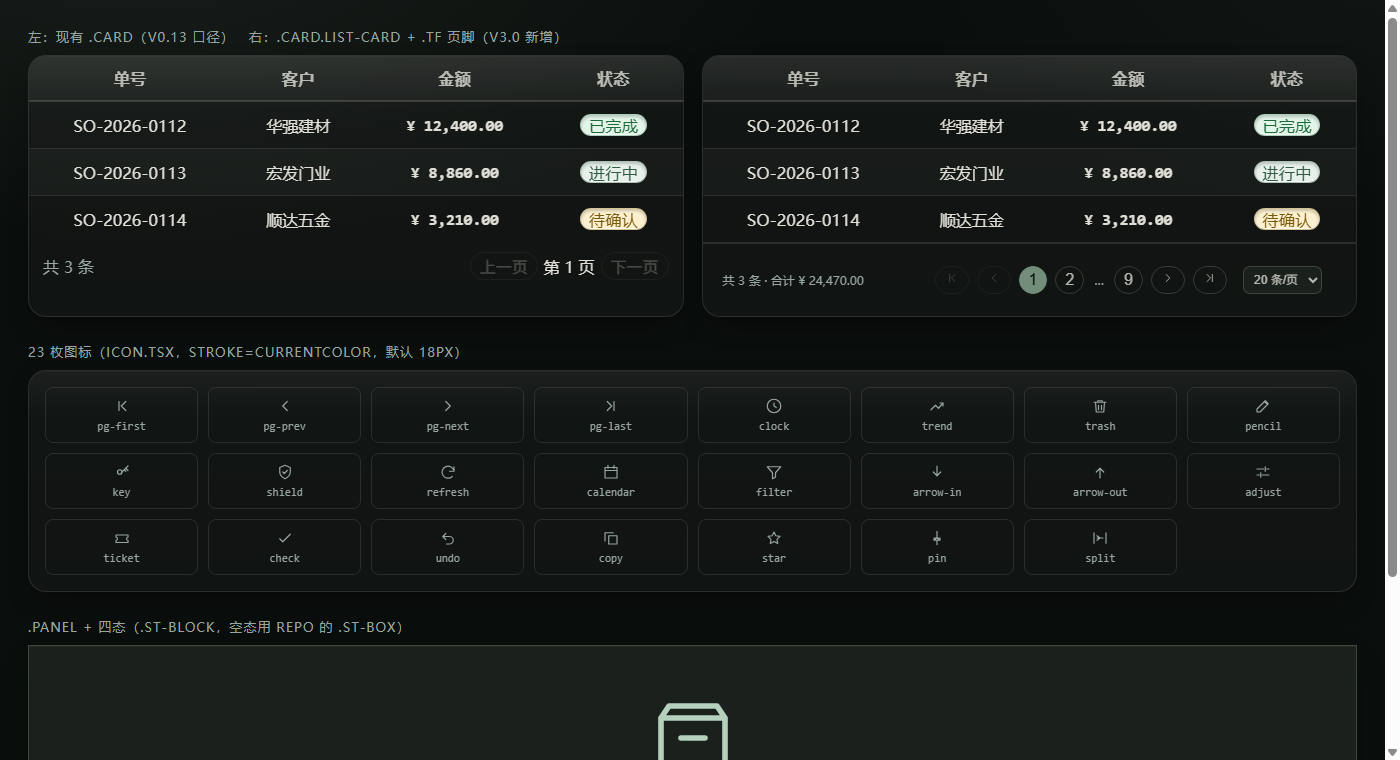
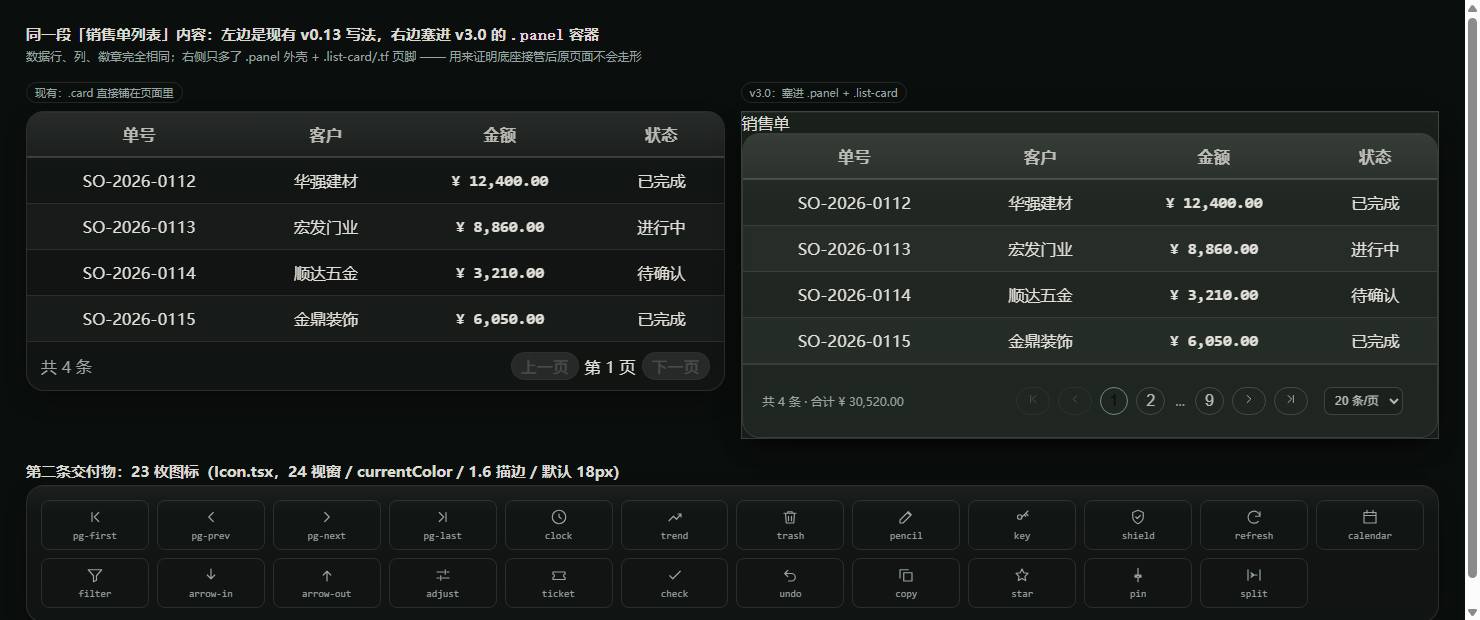
refactor(web): 按 #443 收紧底座范围——去掉原型外壳类与重复定义（#443）
逐条对回 issue 正文，砍掉三类越界 + 补两处不足：

- 删原型演示外壳：.lg-ver（版本水印）/ .lg-theme（主题切换浮钮）/
  .lg-mock（「模拟登录失败」演示按钮）。#443 明令「禁止把整段稿子 CSS 连
  .phone/.stage 一起搬进来——那部分是原型外壳」，这三样同类
- 删 --v30-warn：#443 只允许「真需要新变量」时新增，本文件搬来的类 0 处使用
- 删裸 .pager button 覆盖：app-v013.css:400 已有同名选择器，#443 要求
  「能复用就复用、不重复定义」。暗色白底白字改用新复合选择器 .tf .pager button
  修（v3.0 新页脚上下文，不碰 v0.13）；老 .pager 的缺口已在 #443 报给负责人
- Icon 签名收敛到 #443 建议的 { name, size, className }，去掉 style/decorative
  两个可选参数，aria-hidden 固定 true；删随之无用的 CSSProperties 导入
- 截图重做：改为「同一段销售单内容，左边现有写法 / 右边塞进 .panel」，
  对应 #443「把某个现有页面塞进 .panel 的肉眼对比」；删 demo.html
  （issue 未要求往仓库提交 demo，复现方式写进 README 代码块）
- README 补「五批页面怎么接这个底座」表 + 原型外壳不接的说明

验收：tsc --noEmit 0 / vitest src/components 5 文件 33 例 / pnpm -r build 全通过

diff --git a/apps/web/src/styles/app-v30.css b/apps/web/src/styles/app-v30.css
@@ -18,7 +18,7 @@
    | `.tf`                       | L250/458   | 列表卡页脚条（左「共 N 条 · 合计」，右分页） |
    | `.pager` 子元素补充          | L450–457   | `button.on` / `.per` / `.dots` / svg 尺寸（父级 `.pager` 复用 v0.13，不重写） |
    | `.tw` / `.tw.tight`         | L233/529   | 表格横向滚动容器（v0.13 靠 Tailwind 的 overflow-x-auto，v3.0 用它） |
-   | `.lg-*`                     | L381–421   | 登录页整套（5:5 左品牌右表单、`data-state` 三态、`.lg-alert`） |
+   | `.lg-*`（产品部分）          | L381–421   | 登录页：左品牌右表单、`.lg-field` / `.lg-code` / `.lg-submit` / `data-state` 三态 / `.lg-alert` |
    | `.ent-*` / `.lg-ok`         | L506–515   | 入企页（joined / invalid） |
    | `@keyframes lgDotPulse/spin` | L394/496  | 上面两组用到的动效 |
 
@@ -35,6 +35,10 @@
    - **`.state` / `.ico`**（稿子 L251–255 的面板空态）→ 同上，用 repo 的 `.st-box` + `.st-ico`。
    - **全局 reset 与 `:root` 原始米白色板**（稿子 L17–45）→ 会把现有页面砸掉，见 README §2。
    - **`@media print` 打印客户联**（稿子 L423–447）→ 属第一批单据页，单独提。
+   - **原型演示外壳**（与 `.phone` / `.stage` 同类，本版稿子里已无 `.phone`/`.stage`，
+     但登录页仍留了三样）：`.lg-ver`（右下角「Qingdan · 新 UI v3.0」版本水印）、
+     `.lg-theme`（右上角主题切换浮钮）、`.lg-mock`（「模拟一次登录失败」+ 演示口令
+     提示那两行）。这三样只服务设计稿自身的演示，**不是产品样式**，产品页面里不会出现。
 
    ------------------------------------------------------------------
    三、与 tokens-v013 的差异（#443 要求列清）
@@ -47,7 +51,7 @@
    | `--ink / --ink-2 / --ink-3` | `--text-1 / --text-2 / --text-3` | 桥接 |
    | `--line / --line-2` | `--line-1 / --line-2` | 桥接 |
    | `--bad / --ok` | `--danger-on-surface` / `--ok` | 桥接 |
-   | `--warn #b87407` | **无对应** | 新增 `--v30-warn`（暗 `#E0A233` / 亮 `#7A5A0E`，取稿子 dark/light 两值） |
+   | `--warn #b87407` | **无对应** | 暂不引入：本文件搬过来的类没有一处用到 warn，`tokens-v013` 也没有对应令牌，留到真需要时再走 `--v30-` 前缀新增 |
    | `--r 12px` | `--r-card 12px` | 一致，直接用 `--r-card` |
    | `color-mix(... , var(--accent) 14%, transparent)` | `--a-10 ~ --a-32` 一组 | 换成 `--a-*`（Edge 111 对 color-mix 恰在边界，用变量更稳） |
 
@@ -75,15 +79,10 @@
   --v30-on-accent: var(--on-accent);
   --v30-bad: var(--danger-on-surface);
   --v30-ok: var(--ok);
-  /* tokens-v013 没有 warn，按 #443「新变量走 --v30- 前缀」新增，取稿子两套主题各自的值 */
-  --v30-warn: #e0a233;
   --v30-r: var(--r-card);
   --v30-shadow: var(--sh-1);
   --v30-shadow-lg: var(--sh-2);
   --v30-ease: var(--ease-out);
-}
-html[data-mode="light"] {
-  --v30-warn: #7a5a0e;
 }
 
 /* ============================================================
@@ -139,11 +138,14 @@ html[data-mode="light"] {
   border-color: var(--v30-accent-solid);
   color: var(--v30-on-accent);
 }
-/* 补 v0.13 的一个缺口：`app-v013.css:400` 的 `.pager button` 没写 background，
-   而 index.css 有意删掉了全局 `button{background:none}`（README §2），
-   于是暗色模式下页码按钮落到浏览器默认的浅色底 → 白底白字看不见。
-   这里只补透明的底与禁用态，尺寸 / 圆角 / 字号仍由 v0.13 决定。 */
-.pager button {
+/* 页脚分页的按钮底。
+   注意这里写的是 `.tf .pager button`（v3.0 新引入的页脚上下文，app-v013 里没有
+   这个复合选择器），**不是**覆盖 `app-v013.css:400` 的 `.pager button` —— 按 #443
+   「已有的类不重复定义」，v0.13 的分页按钮本体一个字节都不动。
+   为什么要这一条：`app-v013.css:400` 没写 background，而 index.css 有意删掉了全局
+   `button{background:none}`（README §2），暗色下按钮会落到浏览器默认浅底 → 白底白字。
+   老的 `.pager` 那处缺口不属本单，已在 #443 评论里报给负责人单独修。 */
+.tf .pager button {
   background: transparent;
   cursor: pointer;
 }
@@ -414,20 +416,8 @@ html[data-mode="light"] {
   width: 16px;
   height: 16px;
 }
-.lg-ver {
-  position: fixed;
-  right: 18px;
-  bottom: 16px;
-  color: var(--v30-ink-3);
-  font: 500 11px var(--mono);
-}
-.lg-theme {
-  position: fixed;
-  right: 18px;
-  top: 16px;
-  display: flex;
-  gap: 6px;
-}
+/* 稿子 L417–420 的 `.lg-ver`（版本水印）与 `.lg-theme`（主题切换浮钮）是演示外壳，
+   按 #443 不搬，见文件头「二、没有搬什么」最后一条。 */
 
 /* 错误告警条：常驻 DOM，`.lg-form[data-state="error"]` 才显形（稿子 L488–492） */
 .lg-alert {
@@ -476,33 +466,6 @@ html[data-mode="light"] {
 .lg-alt svg {
   width: 14px;
   height: 14px;
-}
-.lg-mock {
-  margin: 10px 0 0;
-  font-size: 11.5px;
-  color: var(--v30-ink-3);
-  display: block;
-  line-height: 2;
-}
-.lg-mock svg {
-  width: 12px;
-  height: 12px;
-  vertical-align: -2px;
-  margin-right: 4px;
-}
-.lg-mock button {
-  font-size: 11.5px;
-  font-weight: 600;
-  color: var(--v30-accent);
-  border-bottom: 1px dashed var(--a-35);
-}
-.lg-mock button:hover {
-  border-bottom-style: solid;
-}
-.lg-mock b {
-  color: var(--v30-ink-2);
-  font-family: var(--mono);
-  font-weight: 600;
 }
 /* 成功条（入企页「已加入」用） */
 .lg-ok {

diff --git a/apps/web/src/components/icons/Icon.tsx b/apps/web/src/components/icons/Icon.tsx
@@ -12,7 +12,6 @@
  * （梁海俊已在 #443 注明先别按 24 写测试）。若最终取 24，把那一枚的 path 补进 `ICONS`
  * 与 `ICON_NAMES` 即可，`IconName` 会自动扩，调用方无需改。
  */
-import type { CSSProperties } from 'react';
 
 /** 图标名 → path 的 `d`。新增一枚只改这里 + `ICON_NAMES`。 */
 const ICONS = {
@@ -82,10 +81,6 @@ export interface IconProps {
   /** 边长，默认 18（稿子 `.ic` 的默认尺寸）。 */
   readonly size?: number;
   readonly className?: string;
-  readonly style?: CSSProperties;
-  /** 默认 true：图标本身不承载语义，旁边一定有文字或 aria-label。
-   *  纯图标按钮请传 `aria-label` 给按钮，并把这里保持 true。 */
-  readonly decorative?: boolean;
 }
 
 /**
@@ -95,12 +90,12 @@ export interface IconProps {
  * <Icon name="refresh" size={14} className="spin" />
  * <button aria-label="删除"><Icon name="trash" /></button>
  * ```
+ * 图标本身不承载语义（旁边一定有文字或按钮的 aria-label），所以固定 `aria-hidden`。
  */
-export function Icon({ name, size = 18, className, style, decorative = true }: IconProps) {
+export function Icon({ name, size = 18, className }: IconProps) {
   return (
     <svg
       className={className}
-      style={style}
       width={size}
       height={size}
       viewBox="0 0 24 24"
@@ -109,7 +104,7 @@ export function Icon({ name, size = 18, className, style, decorative = true }: I
       strokeWidth={1.6}
       strokeLinecap="round"
       strokeLinejoin="round"
-      aria-hidden={decorative ? true : undefined}
+      aria-hidden="true"
       focusable="false"
     >
       <path d={ICONS[name]} />

diff --git a/docs/ui/v3.0-base/README.md b/docs/ui/v3.0-base/README.md
@@ -1,31 +1,54 @@
-# v3.0 底座自验现场（#443）
+# v3.0 底座验收证据（#443）
 
-这里只有三样东西：一份不依赖 React 的 demo 页 + 两张截图。**不是产品页面，不进构建。**
+这里只有两张截图，**没有页面、没有代码，不进构建**。
 
-| 文件 | 用途 |
+| 文件 | 内容 |
 |---|---|
-| `demo.html` | 把 `apps/web/src/styles/app-v30.css` 的类拼一遍：`.card` vs `.card.list-card + .tf`、23 枚图标、`.panel` 四态。双击即可在浏览器打开（CSS 用相对路径引 `apps/web/src/styles/`） |
-| `base-light.png` / `base-dark.png` | 上面那份 demo 在亮色 / 暗色下的渲染结果，PR 里引用的是这两张 |
+| `base-light.png` | 同一段「销售单列表」内容：左边现有 v0.13 写法（`.card` 直接铺），右边塞进 v3.0 的 `.panel` + `.card.list-card` + `.tf` 页脚；底部是第二条交付物 23 枚图标 |
+| `base-dark.png` | 同上，`data-mode="dark"` |
 
-## 为什么要有这个目录
+## 为什么是这两张
 
-`#443` 的验收要求附一张「把现有页面塞进 `.panel` 的肉眼对比截图」，并注明**不要真改任何页面**。
-于是做了这份只读的 demo：左半是 v0.13 现有卡片，右半换成 `.list-card + .tf` 页脚，下面接四态面板与图标总览——
-一眼能看出新底座没有把老样式砸掉（左半与 v0.13 完全一致）。
+#443 的验收要求是「附一张把某个现有页面塞进 `.panel` 的肉眼对比截图（证明底座能用；不要真改那个页面）」。所以：
 
-## 复现
+- 两侧的表格行、列、徽章**完全相同**，只多了 `.panel` 外壳与 `.tf` 页脚 —— 一眼能看出接上底座后原页面没走形；
+- 用的是 `styles/README.md` §「四态怎么用 · 表格」里的示范片段，**没有改动任何真实页面**（本 PR 的 `git diff` 里 `apps/web/src/pages/**` 为 0 字节）。
 
-直接用浏览器打开 `demo.html` 即可，不需要起 dev server。
+## 怎么自己复现
 
-亮/暗切换：把 `demo.html` 第 2 行的 `data-mode="light"` 改成 `dark`。
+不需要起 dev server，也不用往仓库提交 demo 文件：
 
-截图命令（Edge headless，本机验证用）：
-
+```html
+<!doctype html>
+<html lang="zh-CN" data-mode="light"><head><meta charset="utf-8">
+<link rel="stylesheet" href="apps/web/src/styles/tokens-v013.css">
+<link rel="stylesheet" href="apps/web/src/styles/app-v013.css">
+<link rel="stylesheet" href="apps/web/src/styles/app-v30.css">
+</head><body>
+  <!-- 左边：现有写法 -->
+  <div class="card"><table>…</table></div>
+  <!-- 右边：同一段内容塞进 .panel -->
+  <section class="panel" data-state="filled">
+    <div class="panel-h">销售单</div>
+    <div class="card list-card" data-state="filled">
+      <div class="tw"><table>…</table></div>
+      <div class="tf"><span>共 N 条 · 合计 …</span><div class="pager">…</div></div>
+    </div>
+  </section>
+</body></html>
 ```
-msedge --headless --disable-gpu --window-size=1400,1150 --virtual-time-budget=5000 --run-all-compositor-stages-before-draw --screenshot=base-light.png docs/ui/v3.0-base/demo.html
+
+把这段存成仓库根目录下的临时 `.html`（`href` 路径要对得上 `apps/web/src/styles/`），浏览器直接打开就是截图里的样子。改 `data-mode="dark"` 看暗色。
+
+截图命令（本机 Edge headless）：
+
+```powershell
+msedge --headless --disable-gpu --window-size=1480,620 `
+  --virtual-time-budget=6000 --run-all-compositor-stages-before-draw `
+  --screenshot=base-light.png <临时 html 的 file:// 路径>
 ```
 
 ## 注意
 
-- 目录里的 `demo.html` 不是五批页面的模板，别复制它写业务页——真正的写法看 `apps/web/src/styles/README.md` 的「v3.0 底座」一节。
-- 底座合并后这个目录可以留着当回归样张，也可以在五批全部落地时一并删掉，不影响任何代码。
+- 这两张图是**证据**，不是页面模板。写业务页请对着 `apps/web/src/styles/README.md` 的「v3.0 底座」与「四态怎么用」两节抄。
+- 五批全部落地后，这个目录可以整块删掉，不影响任何代码。

diff --git a/apps/web/src/styles/README.md b/apps/web/src/styles/README.md
@@ -36,7 +36,7 @@
 | `.tf .pager` | 页脚内分页右对齐 | 同上 |
 | `.pager button.on` / `.per` / `.dots` / `svg` | v3.0 分页的选中页、每页条数、省略号、箭头尺寸 | 同上 |
 | `.tw` / `.tw.tight` | 表格横向滚动容器 / 紧凑列内边距 | 列多的单据表 |
-| `.lg-*` | 登录页整套：`lg-wrap` `lg-brand` `lg-mark` `lg-slogan` `lg-sub` `lg-foot` `lg-formpane` `lg-form` `lg-hint` `lg-field` `lg-code` `lg-row` `lg-submit` `lg-alert` `lg-alt` `lg-mock` `lg-ver` `lg-theme` | #435 登录页 |
+| `.lg-*` | 登录页整套：`lg-wrap` `lg-brand` `lg-mark` `lg-slogan` `lg-sub` `lg-foot` `lg-formpane` `lg-form` `lg-hint` `lg-field` `lg-code` `lg-row` `lg-submit` `lg-alert` `lg-alt` | #435 登录页 |
 | `.ent-*` / `.lg-ok` | 入企页：`ent-wrap` `ent-brand` `ent-pane` `ent-card` `ent-co` + 成功条 | #435 入企页 |
 | `--v30-*` | 变量桥接，见下 | 上述类内部用 |
 
@@ -54,7 +54,6 @@
 --v30-accent-solid: var(--accent-deep);   /* 实心按钮底，配 --v30-on-accent */
 --v30-bad: var(--danger-on-surface);
 --v30-ok: var(--ok);
---v30-warn: #e0a233 / #7a5a0e;            /* tokens-v013 没有 warn，新增；亮暗各一值 */
 ```
 
 **写新页面时用 `var(--v30-*)` 或 `var(--text-1)` 都行，别写死颜色。**
@@ -84,6 +83,19 @@ import { Icon } from '@/components/icons/Icon';
 | `.state` / `.ico`（稿子面板空态） | 同上，用 repo 的 `.st-box` + `.st-ico` |
 | 全局 reset 与米白色板 `#f5f4f0` / 朱砂 `#dc4a26` | 会砸现有页面；按 #443「颜色以 tokens-v013 为准」，只用映射后的变量 |
 | `@media print` 打印客户联 | 属第一批单据页（#431），单独提 |
+| 原型演示外壳 `lg-ver` `lg-theme` `lg-mock` | 与 `.phone` / `.stage` 同类：版本水印、「切换亮暗」浮钮、「模拟登录失败 / 演示口令」提示。只服务设计稿自身演示，产品页面不会出现 |
+
+### 五批页面怎么接这个底座
+
+| 批次 | 接哪几样 | 别做 |
+|---|---|---|
+| 第一批 #431（单据 5 + 冲正） | `.list-card` + `.tw` + `.tf` 页脚分页、`.tf .pager` 子元素、`Icon` | 别自己写分页控件；别把 `.st-*` 在这层重定义 |
+| 第二批 #432（主数据 4 + 员工） | 同上（列表形态完全一致） | 同上 |
+| 第三批 #433（库存 3） | `.list-card` + `.tf`；KPI 继续用 v0.13 的 `.kpis` / `.kpi` | 别用稿子的 `.state` / `.ico` |
+| 第四批 #434（设置组 6） | `.panel` + `.st-block`（面板型四态，v0.13 已有）+ `Icon` | 别改 `.panel` 本体 |
+| 第五批 #435（登录 / 入企 / 工作台） | `.lg-*`（登录）、`.ent-*` + `.lg-ok`（入企）、`.panel`（工作台） | `.lg-ver` / `.lg-theme` / `.lg-mock` 是演示外壳，不接 |
+
+接的时候先读下面「四态怎么用」两段（块级 / 表格），**四态的 DOM 结构是硬约定**，改结构就会掉进 `list-state.ts:6-11` 点名的坑。
 
 ## 与设计稿原文件的两处差异（别改回去）
 
